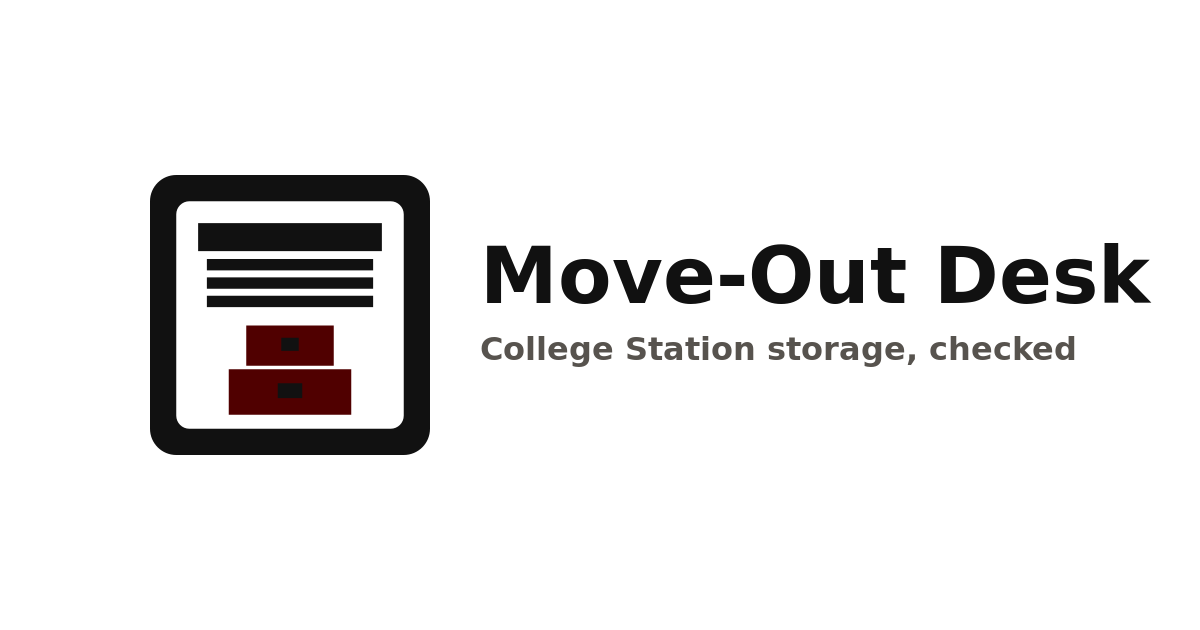
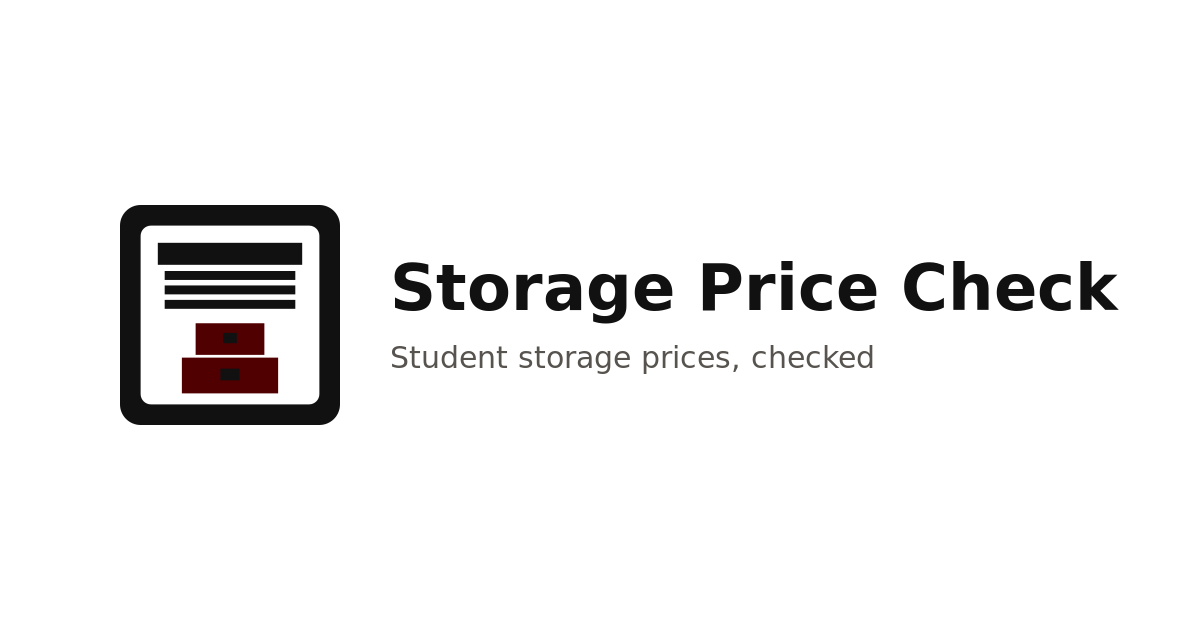
Rename the site to Storage Price Check
Use the new name in the header, titles, metadata, and About page, and change the tagline. Keep the GitHub Pages base path.

Changed region(s): [[0.0925, 0.2714, 0.9558, 0.7238]]

diff --git a/src/styles/global.css b/src/styles/global.css
@@ -105,11 +105,17 @@ img {
 
 .brand-name {
   font-family: var(--sans);
-  font-size: 1.25rem;
+  font-size: 1.05rem;
   letter-spacing: -0.02em;
   display: block;
   line-height: 1.1;
   color: #111111;
+}
+
+@media (min-width: 720px) {
+  .brand-name {
+    font-size: 1.2rem;
+  }
 }
 
 .brand-kicker {

diff --git a/README.md b/README.md
@@ -1,4 +1,4 @@
-# Move-Out Desk
+# Storage Price Check
 
 An independent, static comparison of college move-out and summer storage. Version 1 covers Texas A&M and College Station. The pages are templates. Schools, cities, providers, comparisons, and guides live in data files, so the same shape can back a later directory (local porta potty rentals, Texas septic pumping) without a new layout for every city.
 
